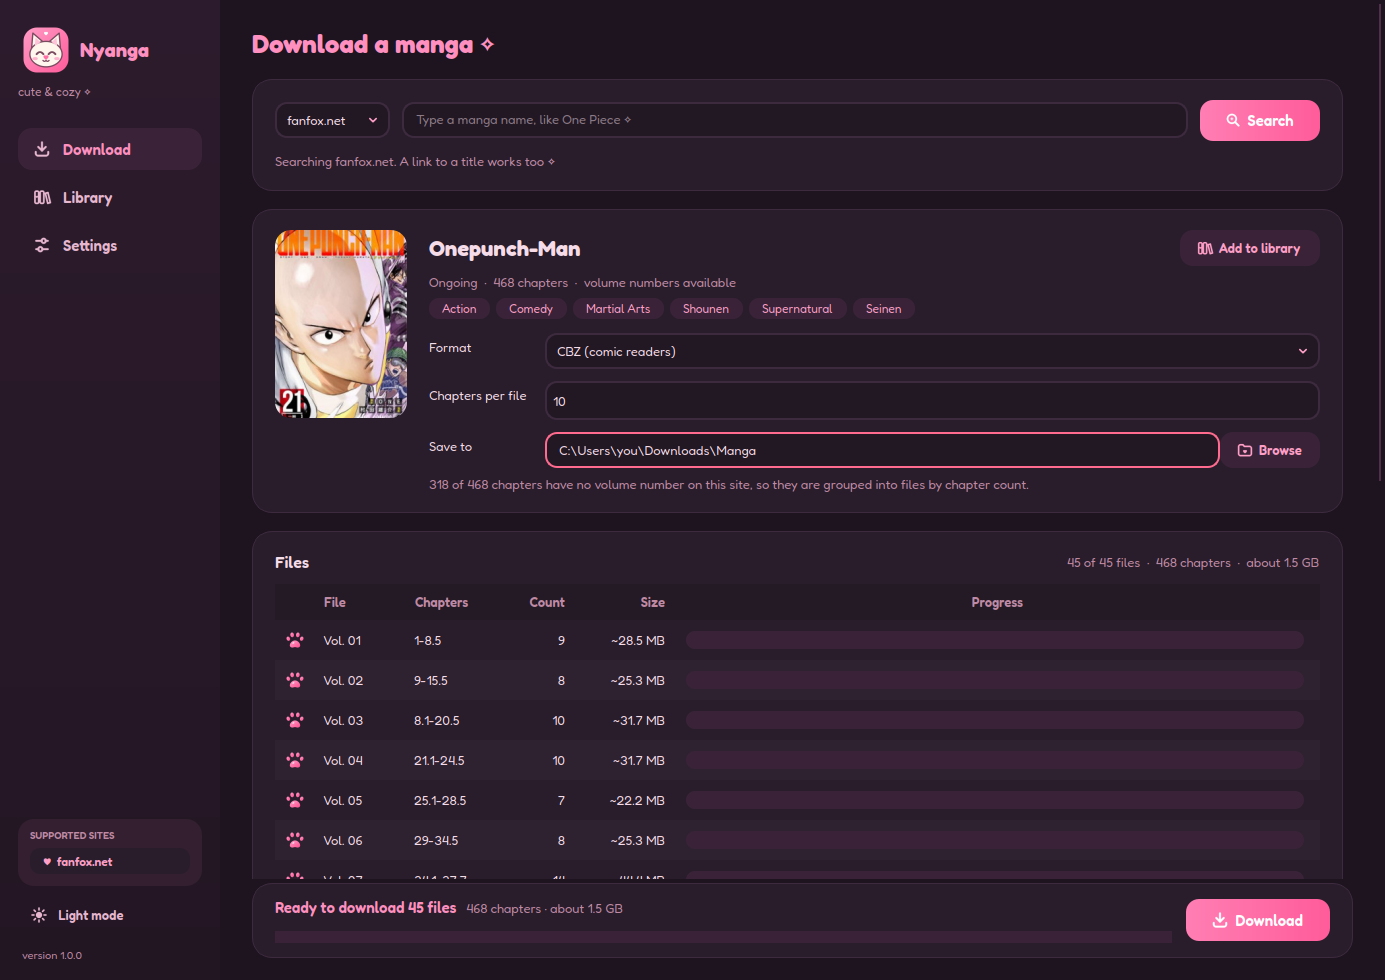
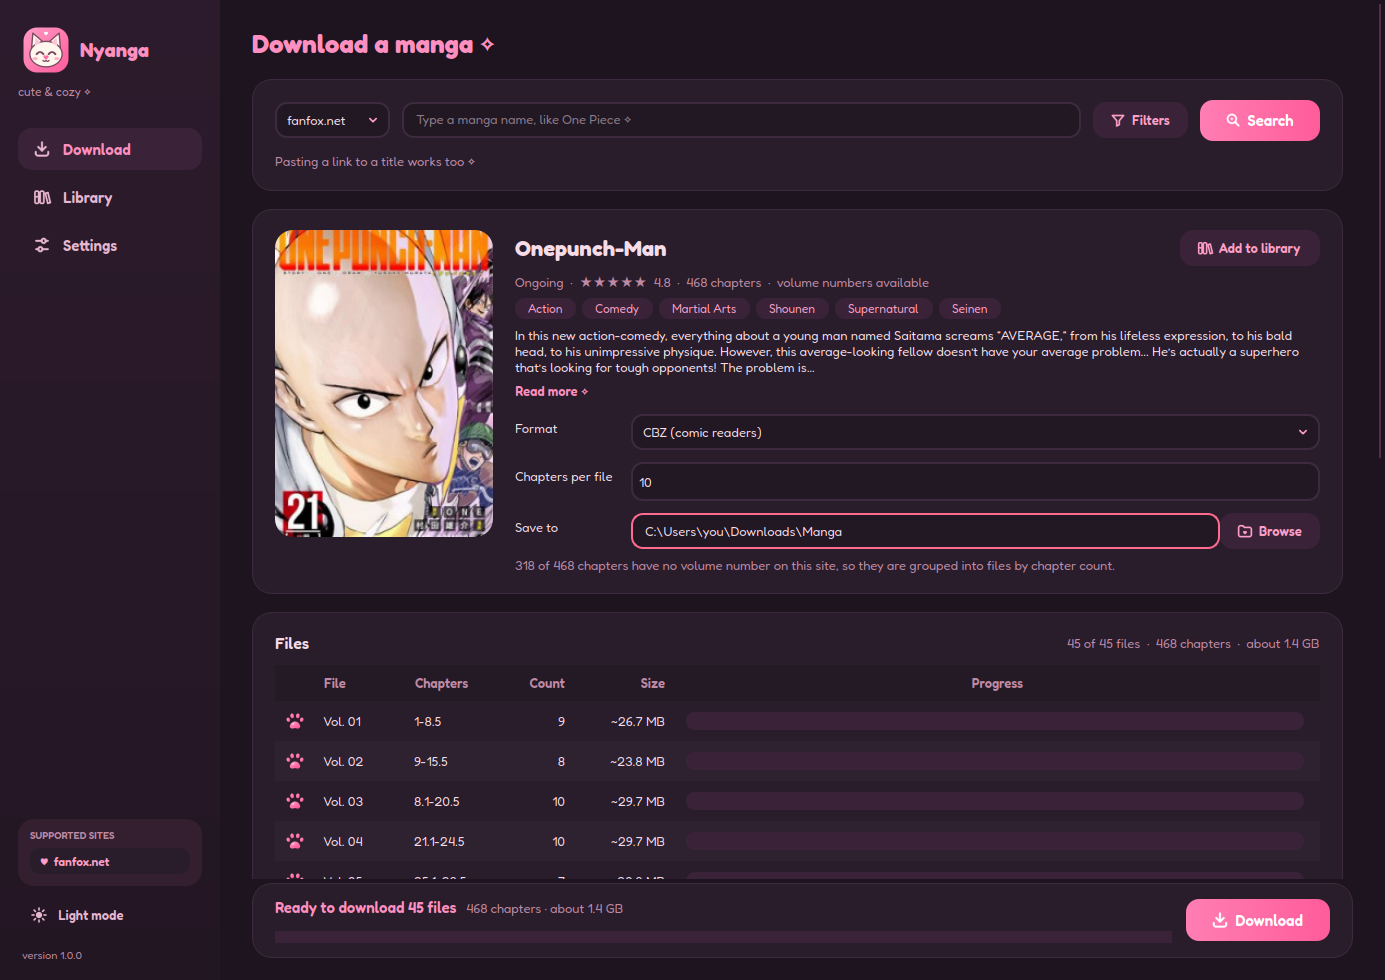
fix(download): the hint under the search bar no longer repeats the site name
The source dropdown next to it already shows which site you're searching.

diff --git a/gui.py b/gui.py
@@ -1038,7 +1038,7 @@ class DownloadPage(QWidget):
     # ---- fetching
 
     def _idle_hint(self) -> str:
-        return f"Searching {self.source.currentData()}. A link to a title works too ✧"
+        return "Pasting a link to a title works too ✧"
 
     def _start_lookup(self, title: str, text: str) -> None:
         self.lookup_title.setText(title)
